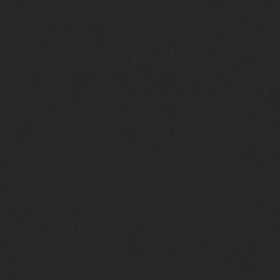
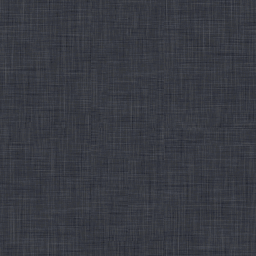
20130613

diff --git a/assets/themes/hooligan/css/style.css b/assets/themes/hooligan/css/style.css
@@ -7,7 +7,7 @@
 /* line 13, ../_sass/_base.scss */
 html, body {
   background-color: #2a2a2a;
-  background: url(../images/bgs/body.jpeg) repeat;
+  background: url(../images/bgs/body.png) repeat;
 }
 
 /* line 18, ../_sass/_base.scss */
